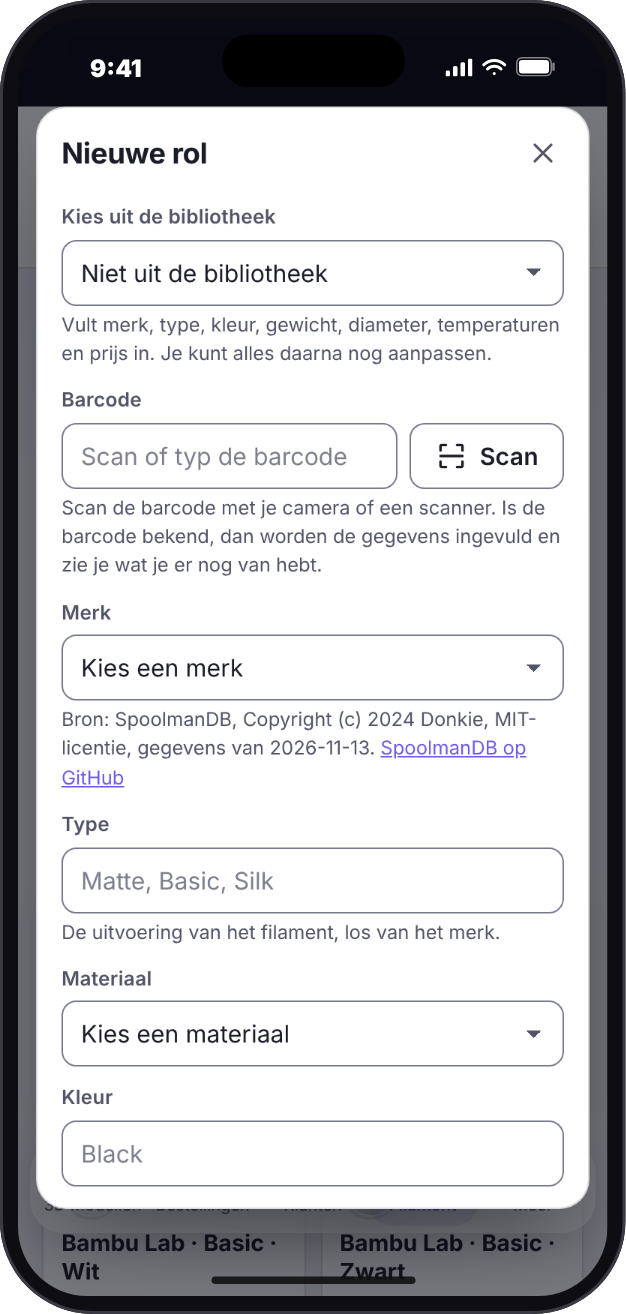
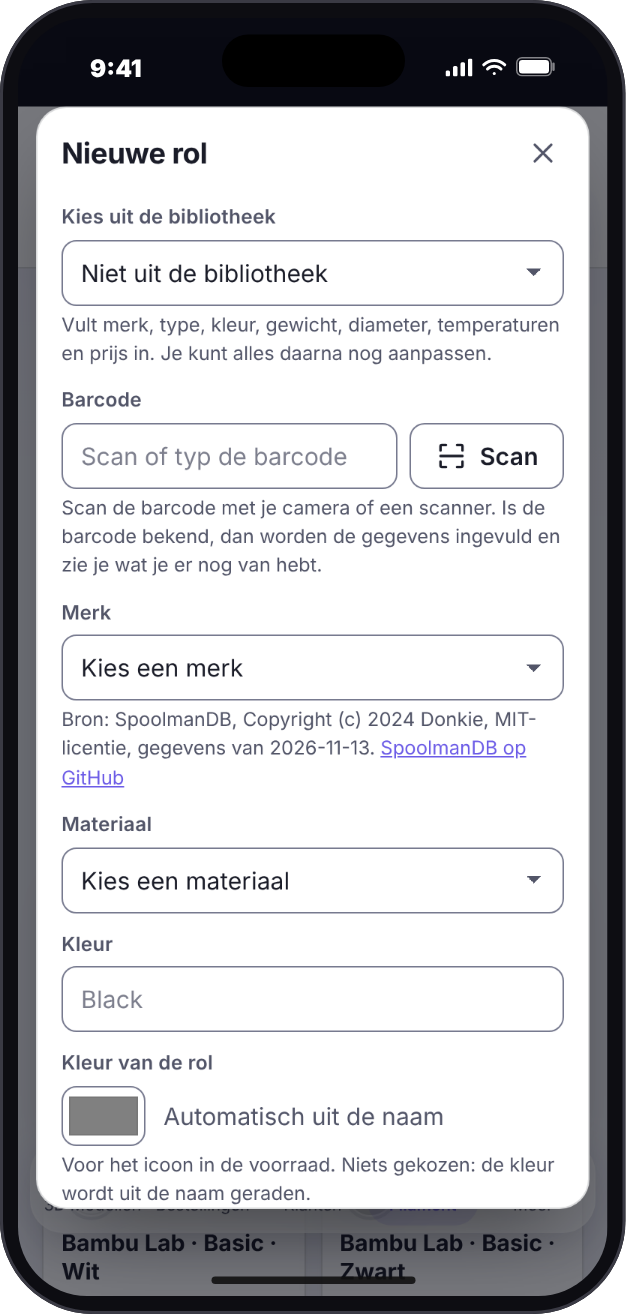
feat(filament): the roll form has no Type field any more
The product line (Basic, Matte, Silk) is part of the colour's name in SpoolmanDB and
in Spoolman ("Matte Black"), so the form no longer asks for it separately.

The field is hidden, not removed: it stays in the form's field list, so what the
form holds still goes with the roll. A type that comes with a library entry, a known
barcode or a SpoolmanDB colour the library has under its own name is saved with the
new roll, editing a roll never clears the one it has, and a duplicate keeps it. The
column, the Type filter, the display name, the stock grouping, the backup, the
Spoolman push and the form of a library entry are unchanged.

Docs (handleiding, AGENTS.md) and the three new-roll screenshots follow.

Claude-Session: https://claude.ai/code/session_01KSdu588GDoH9roQXjjQPCZ

Changed region(s): [[0.0911, 0.624, 0.9105, 0.9361], [0.8498, 0.7489, 0.9105, 0.8113], [0.7284, 0.6865, 0.7891, 0.7177]]

diff --git a/frontend/js/resources.js b/frontend/js/resources.js
@@ -78,7 +78,9 @@ function resources() {
     fields: [
       { key: 'barcode', label: t('filament.barcode'), type: 'barcode', hint: t('filament.barcode_hint') },
       { key: 'brand', label: t('filament.brand'), type: 'brand', required: true },
-      { key: 'product_type', label: t('filament.type'), type: 'text', placeholder: t('filament.type_ph'), hint: t('filament.type_hint') },
+      // Not a field of this form any more (SpoolmanDB and Spoolman put the product line in the name of the colour), but it stays here: `toPayload` sends what the form
+      // holds, so a type that comes with a library entry or a known roll goes with the new roll, and editing a roll never clears the one it has. The library form keeps it.
+      { key: 'product_type', label: t('filament.type'), type: 'text', hidden: true },
       { key: 'material', label: t('filament.material'), type: 'text', placeholder: t('filament.material_ph') },
       { key: 'colour', label: t('filament.colour'), type: 'text', placeholder: t('filament.colour_ph') },
       { key: 'colour_hex', label: t('filament.colour_hex'), type: 'color', hint: t('filament.colour_hex_hint') },
@@ -628,6 +630,7 @@ export function openForm(config, item, reload, { copyOf = null } = {}) {
   let savedId = item ? item.id : null;       // once a new item is made, a second try (the picture was refused) changes it instead of making another
 
   const inputs = config.fields.map((f) => {
+    if (f.hidden) return null;                                       // part of what is saved, not of what is shown
     if (f.type === 'barcode') return barcodeField(f);
     if (f.type === 'brand') return brandField(f);
     if (f.type === 'color') return colourField(f);

diff --git a/AGENTS.md b/AGENTS.md
@@ -94,7 +94,7 @@ PWA), `deploy/` (container entrypoint), `scripts/` (repo tooling), `homeassistan
   (the newest roll with that barcode, else the library entry with it; full, no notes), and both the list and the adding use it, so what is listed is what is made. The adding is one transaction:
   all or nothing, at most `BULK_MAX_ROLLS`. A barcode neither knows is filled in with the normal roll form, never guessed. The camera keeps reading (`scanner.cameraPanel`), and the
   page's `Permissions-Policy` allows `camera=(self)` and nothing else (`test_static_build.py`): `camera=()` made Chrome and Android refuse every scan.
-- SpoolmanDB (`backend/app/spoolmandb.py`, `backend/app/spoolmandb_data/`, `frontend/js/spoolmandb.js`, migrations 0014 and 0015, `scripts/sync_spoolmandb.py`, `backend/app/colour_names.py`) is a **snapshot** of https://github.com/Donkie/SpoolmanDB (MIT, Copyright (c) 2024 Donkie, a community list of filaments) that ships with the app and that an administrator can refresh from the project: the licence travels with the data (`spoolmandb_data/LICENSE`), and the screens that offer it name the source. There are two ways to a newer list and no third: `python scripts/sync_spoolmandb.py` in a pull request of its own (the shipped snapshot: every value goes through `spoolmandb.from_upstream`, the licence is refused when it is not that project's MIT text, the output is deterministic), and the button in Settings -> Filaments (`POST /api/spoolmandb/sync`: administrators only through `access.ADMIN_ONLY`, at most once a day counted from the last sync that went through, checked again inside `named_lock` so that two clicks make one, and a failed attempt does not use up the day). **That button is the only moment the app contacts the project**, and only at the two fixed addresses `SYNC_URL` (GitHub Pages) and `LICENSE_URL` (raw.githubusercontent.com): https, no redirect followed, `MAX_DOWNLOAD_BYTES` and `TIMEOUT` as caps, never from a request or a setting (there is deliberately no environment variable: nothing is fetched until somebody presses it, and a test fails when an address is not one of the two). What comes back goes through `from_upstream` row by row and is refused, with nothing stored and the day not used up, when the licence is no longer that project's MIT text, when it is unusable, or when it has under half the rows held (`KEEP_RATIO`); what is kept is read back by `_parse` before it replaces anything. The copy lives in `spoolmandb_sync` (one row, **not in a backup**: it can be fetched again, and a restore falls back to the shipped list), and every worker holds its own parsed copy, so `refresh(conn)` compares the row's `version` at the start of the routes of `/api/spoolmandb` and of the Spoolman pushes, while `current()` and `find()` serve the copy in use; a damaged row is skipped for the shipped snapshot. A sync never touches a roll or a library entry. `load()` (the shipped file) checks it again and a bad one is a 503, not a crash. **It has no barcode, so it cannot resolve a scan**: it fills the form of a roll the app does not know yet (`GET /api/spoolmandb`, `/filaments`; `spoolmanDbCatalogue` feeds the fields of `openForm` for a new roll, so the scan list's *Gegevens invullen* gets it too: the list's brands are in the brand pull-down, the material and colour fields are pull-downs like the brand's, each with an *Other…* that hands over to a text field (`materialField`, `colourPick`, redrawn by `suggest` whenever the brand or the material changes, however it was filled in, `put` included), and a colour of the list fills in the rest (`adopt`: one row per weight and diameter, so a choice says exactly which); a brand nobody knows gets every material, the common ones first; there is deliberately no block of its own next to the form, and no separate menu for one brand), and the server decides what a pick fills in (`spoolmandb.fill`: a filament the installation already has keeps its own spelling and the library's price; the barcode and the price of a roll are never SpoolmanDB's). The source is kept per roll and library entry as `spoolmandb_id` (migration 0014; in `FILLABLE`, so an entry is only ever *completed* with it; `FROM_BARCODE` carries it from entry to roll; the form drops it when brand, material, colour, weight or diameter are changed after the pick, because it is then another filament). **Dutch and English colour names are one colour when something is added, never when a backup is restored**: `colour_names.loose_kind` is used by `add_roll`, by the suggestions (`spoolmandb._known`), by `spoolman._same` and by the invoice import (`filament_library.Loose`, tried after `Index` and per refill or not, in the preview and in `apply_invoice`), which also stores a new line's colour in English (`colour_names.to_english`: word by word, same order, unknown words kept, translating twice changes nothing; an existing entry keeps the name it has); `keys()` and `first_clash` stay exact, because a restore refuses what `keys` calls a copy and a backup holding both "Geel" and "Yellow" must still restore (`test_a_restore_still_sees_two_spellings_as_two_entries`). A name the vocabulary does not know is never matched, only left unrecognised; a new word is a line in `colour_names.py` and a pair in `test_colour_names.py`. To Spoolman an entry or roll with a `spoolmandb_id` sends the snapshot's density and empty-spool weight and the id as `external_id` (`spoolman.filament_of`); never copy the density or the spool weight into a column here, and a row that left the list in use only costs the push those two values. Its guards were checked by breaking each in turn (30 of 30 made a test fail: 11 of the picker and the matching, 11 of the sync, 8 of the invoice's translation and matching).
+- SpoolmanDB (`backend/app/spoolmandb.py`, `backend/app/spoolmandb_data/`, `frontend/js/spoolmandb.js`, migrations 0014 and 0015, `scripts/sync_spoolmandb.py`, `backend/app/colour_names.py`) is a **snapshot** of https://github.com/Donkie/SpoolmanDB (MIT, Copyright (c) 2024 Donkie, a community list of filaments) that ships with the app and that an administrator can refresh from the project: the licence travels with the data (`spoolmandb_data/LICENSE`), and the screens that offer it name the source. There are two ways to a newer list and no third: `python scripts/sync_spoolmandb.py` in a pull request of its own (the shipped snapshot: every value goes through `spoolmandb.from_upstream`, the licence is refused when it is not that project's MIT text, the output is deterministic), and the button in Settings -> Filaments (`POST /api/spoolmandb/sync`: administrators only through `access.ADMIN_ONLY`, at most once a day counted from the last sync that went through, checked again inside `named_lock` so that two clicks make one, and a failed attempt does not use up the day). **That button is the only moment the app contacts the project**, and only at the two fixed addresses `SYNC_URL` (GitHub Pages) and `LICENSE_URL` (raw.githubusercontent.com): https, no redirect followed, `MAX_DOWNLOAD_BYTES` and `TIMEOUT` as caps, never from a request or a setting (there is deliberately no environment variable: nothing is fetched until somebody presses it, and a test fails when an address is not one of the two). What comes back goes through `from_upstream` row by row and is refused, with nothing stored and the day not used up, when the licence is no longer that project's MIT text, when it is unusable, or when it has under half the rows held (`KEEP_RATIO`); what is kept is read back by `_parse` before it replaces anything. The copy lives in `spoolmandb_sync` (one row, **not in a backup**: it can be fetched again, and a restore falls back to the shipped list), and every worker holds its own parsed copy, so `refresh(conn)` compares the row's `version` at the start of the routes of `/api/spoolmandb` and of the Spoolman pushes, while `current()` and `find()` serve the copy in use; a damaged row is skipped for the shipped snapshot. A sync never touches a roll or a library entry. `load()` (the shipped file) checks it again and a bad one is a 503, not a crash. **It has no barcode, so it cannot resolve a scan**: it fills the form of a roll the app does not know yet (`GET /api/spoolmandb`, `/filaments`; `spoolmanDbCatalogue` feeds the fields of `openForm` for a new roll, so the scan list's *Gegevens invullen* gets it too: the list's brands are in the brand pull-down, the material and colour fields are pull-downs like the brand's, each with an *Other…* that hands over to a text field (`materialField`, `colourPick`, redrawn by `suggest` whenever the brand or the material changes, however it was filled in, `put` included), and a colour of the list fills in the rest (`adopt`: one row per weight and diameter, so a choice says exactly which); a brand nobody knows gets every material, the common ones first; there is deliberately no block of its own next to the form, and no separate menu for one brand), and the server decides what a pick fills in (`spoolmandb.fill`: a filament the installation already has keeps its own spelling and the library's price; the barcode and the price of a roll are never SpoolmanDB's). The source is kept per roll and library entry as `spoolmandb_id` (migration 0014; in `FILLABLE`, so an entry is only ever *completed* with it; `FROM_BARCODE` carries it from entry to roll; the form drops it when brand, material, colour, weight or diameter are changed after the pick, because it is then another filament). **Dutch and English colour names are one colour when something is added, never when a backup is restored**: `colour_names.loose_kind` is used by `add_roll`, by the suggestions (`spoolmandb._known`), by `spoolman._same` and by the invoice import (`filament_library.Loose`, tried after `Index` and per refill or not, in the preview and in `apply_invoice`), which also stores a new line's colour in English (`colour_names.to_english`: word by word, same order, unknown words kept, translating twice changes nothing; an existing entry keeps the name it has); `keys()` and `first_clash` stay exact, because a restore refuses what `keys` calls a copy and a backup holding both "Geel" and "Yellow" must still restore (`test_a_restore_still_sees_two_spellings_as_two_entries`). A name the vocabulary does not know is never matched, only left unrecognised; a new word is a line in `colour_names.py` and a pair in `test_colour_names.py`. To Spoolman an entry or roll with a `spoolmandb_id` sends the snapshot's density and empty-spool weight and the id as `external_id` (`spoolman.filament_of`); never copy the density or the spool weight into a column here, and a row that left the list in use only costs the push those two values. **The roll form has no Type field** (`product_type` in `resources()` is `hidden: true`, not removed: `toPayload` sends what the form holds, so a type that comes with a library entry, a known barcode or a SpoolmanDB pick still goes with the new roll and editing a roll never clears it; the library form keeps its field, and the column, the filter, `spoolName` and `stock.key_of` are unchanged). Its guards were checked by breaking each in turn (30 of 30 made a test fail: 11 of the picker and the matching, 11 of the sync, 8 of the invoice's translation and matching).
 - Third-party browser code is vendored under `frontend/vendor/` (unmodified, with its licence and a
   README saying how to update), never loaded from a CDN: the CSP only allows scripts from this origin.
   Currently only ZXing, for barcode scanning where the browser has no `BarcodeDetector`.

diff --git a/docs/handleiding.md b/docs/handleiding.md
@@ -51,7 +51,7 @@ te houden waar die prijzen op gebaseerd zijn. Inloggen gaat met **passkeys** of,
   prijs), dan wordt er geen enkele rol toegevoegd. Hooguit 200 rollen per keer. Op een telefoon start de camera meteen, op een computer pas
   met *Camera gebruiken*. Bovenaan staat de
   **voorraad per soort**: de rollen die je nog hebt met hun gewicht, het totaal per soort en per materiaal (een soort is
-  één barcode, of merk + materiaal + kleur). Merk (bijvoorbeeld *Bambu Lab*) en **type** (*Matte*, *Basic*, *Silk*) zijn aparte velden; een bestaande rol houdt wat in het merkveld stond en het type is leeg tot je het invult. Pas je bij een rol met barcode merk, type, materiaal, kleur, gewicht, diameter of temperaturen aan, dan vraagt de app bij het opslaan of de andere rollen met dezelfde barcode ook bijgewerkt moeten worden (alleen wat je veranderde; prijs, wat er nog over is en notities zijn per rol en blijven staan). Bovenaan *Voorraad* en *Rollen* staat een **zoekveld** dat filtert terwijl je typt: op naam (merk, type, kleur), barcode en materiaal, zonder op hoofdletters of accenten te letten; met meer woorden (*bambu zwart*) moet elk woord passen. Met de scanknop ernaast zoek je op een gescande barcode, en wat je typte blijft staan als je tussen *Voorraad* en *Rollen* wisselt. Daarnaast kun je de lijst en de voorraad filteren op **soort** (materiaal), **merk** en **type**; elke keuzelijst past zich aan de vorige keuzes aan. **Dupliceren** (op een rol onder *Rollen*) opent het rolformulier, ingevuld met die rol, met bovenaan *Aantal rollen*: zo voeg je een of meer rollen van hetzelfde filament toe. De nieuwe rollen beginnen vol en zijn niet gearchiveerd; pas aan wat anders is (de prijs, bijvoorbeeld) en ze komen er in één keer bij (alles of niets, hooguit 200). Een rol uit Spoolman dupliceer je in Spoolman. Verbruik van een berekening kun je met één klik van de voorraad afboeken.
+  één barcode, of merk + materiaal + kleur). Merk (bijvoorbeeld *Bambu Lab*) en **type** (*Matte*, *Basic*, *Silk*) zijn aparte gegevens, maar het **rolformulier heeft geen veld Type meer**: de productlijn zit in de naam van de kleur (*Matte Black*, zoals SpoolmanDB en Spoolman hem noemen). Een bestaande rol houdt zijn type (te zien in de naam en in het filter *Type*), een nieuwe rol krijgt er alleen een als het uit een bestaande regel wordt overgenomen (de bibliotheek, een bekende barcode), en bij het wijzigen van een rol blijft het staan. Het veld *Type* van een bibliotheekregel (*Instellingen → Filamenten*) is er nog wel. Pas je bij een rol met barcode merk, type, materiaal, kleur, gewicht, diameter of temperaturen aan, dan vraagt de app bij het opslaan of de andere rollen met dezelfde barcode ook bijgewerkt moeten worden (alleen wat je veranderde; prijs, wat er nog over is en notities zijn per rol en blijven staan). Bovenaan *Voorraad* en *Rollen* staat een **zoekveld** dat filtert terwijl je typt: op naam (merk, type, kleur), barcode en materiaal, zonder op hoofdletters of accenten te letten; met meer woorden (*bambu zwart*) moet elk woord passen. Met de scanknop ernaast zoek je op een gescande barcode, en wat je typte blijft staan als je tussen *Voorraad* en *Rollen* wisselt. Daarnaast kun je de lijst en de voorraad filteren op **soort** (materiaal), **merk** en **type**; elke keuzelijst past zich aan de vorige keuzes aan. **Dupliceren** (op een rol onder *Rollen*) opent het rolformulier, ingevuld met die rol, met bovenaan *Aantal rollen*: zo voeg je een of meer rollen van hetzelfde filament toe. De nieuwe rollen beginnen vol en zijn niet gearchiveerd; pas aan wat anders is (de prijs, bijvoorbeeld) en ze komen er in één keer bij (alles of niets, hooguit 200). Een rol uit Spoolman dupliceer je in Spoolman. Verbruik van een berekening kun je met één klik van de voorraad afboeken.
   Het menu *Filament* heeft twee onderdelen: **Voorraad** (de soorten, met een spoel-icoon in de kleur van de rol en bovenaan het totaal per materiaal) en **Rollen** (elke rol afzonderlijk). Beide werken als elk ander overzicht (zie *Overzichten*): tegels of lijst, zoeken, filteren op soort, merk en type, en sorteren. Bij *Rollen* zet de schakelaar *Groepeer per soort* de rollen van één soort bij elkaar (drie rollen Bambu Lab Basic Rood onder één kop, met de barcode erbij, zodat twee tinten rood uit elkaar blijven). Binnen een groep staan de rollen in de gekozen volgorde en de groepen staan op volgorde van hun eerste rol: gesorteerd op *Resterend* staat de soort met de leegste rol bovenaan, met die rol als eerste. Zet je de schakelaar uit, dan is het één lijst op die volgorde, en bij gelijk gewicht op naam. De kleur kies je per rol (*Kleur van de rol*); kies je niets, dan wordt hij uit de naam geraden (*zwart*, *Red*, …). Het icoon is in de stijl van de Material Design-iconen getekend, want die hebben geen filamentspoel.
 - **Verpakking** — je soorten dozen en ander verpakkingsmateriaal met prijs per stuk, elk met optioneel een **afbeelding** (een foto van de doos of zak, of het logo): kies in het formulier een JPEG, PNG of WebP (op een telefoon kun je meteen een foto maken); hij staat daarna klein in de tegel en in de lijst, en met *Afbeelding weghalen* haal je hem er weer af. De app bewaart een verkleinde kopie (hooguit 800 pixels breed of hoog) zonder de gegevens die een telefoon in een foto zet, in de database; hij zit in de back-up en verdwijnt met de verpakking. Verpakking hoort bij de **bestelling**, niet bij het model: met
   *Verpakking toevoegen* in de bestelling kies je er een uit de lijst (zie *Verpakking op een bestelling*). Een berekening die al verpakking bevatte, houdt die
